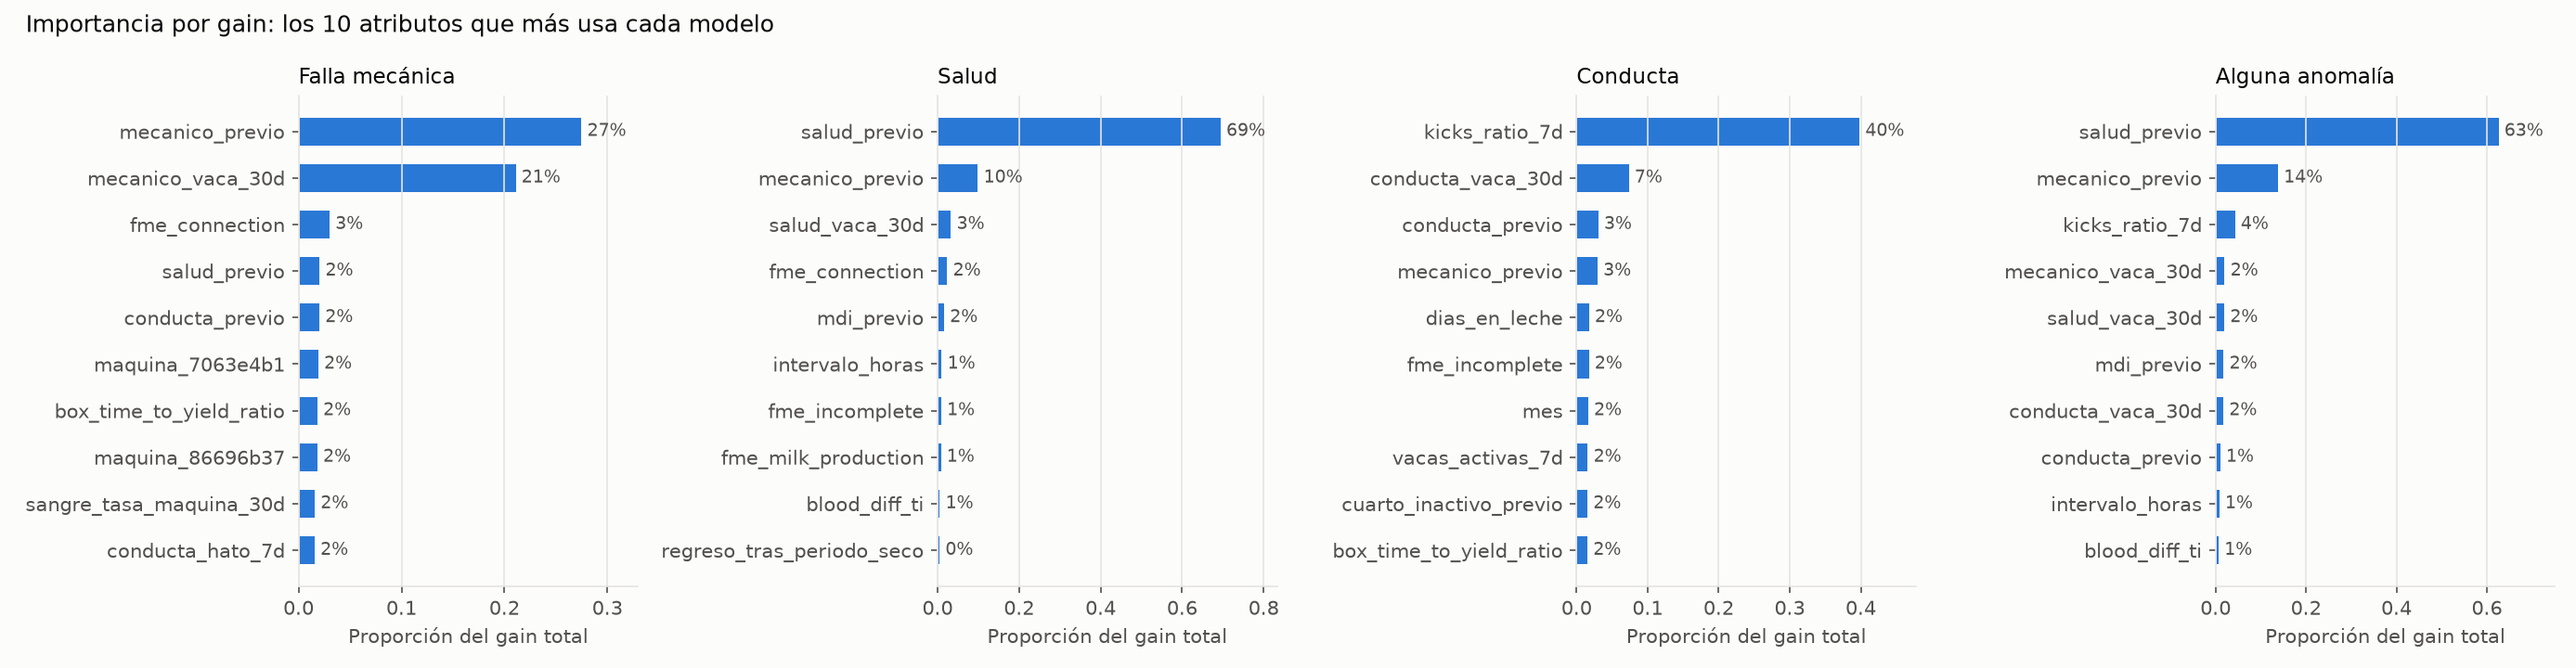
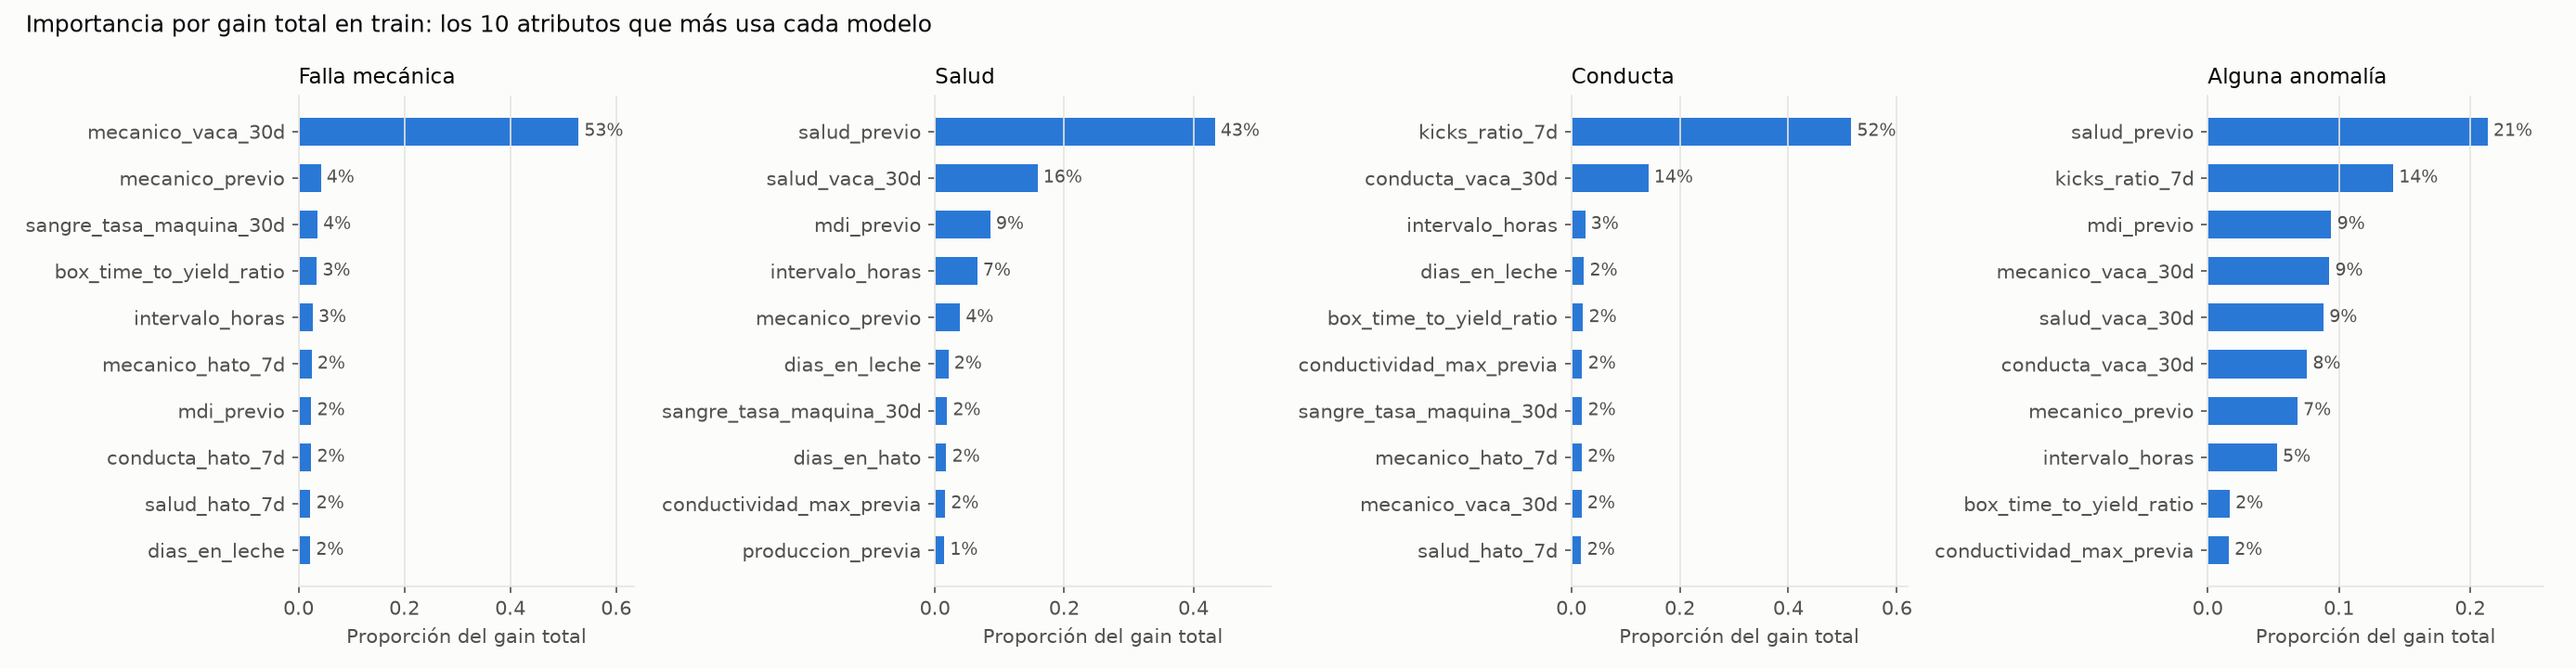
update: importancia por gain total en el XGBoost

diff --git a/src/MODELING/XGBoost/plots.py b/src/MODELING/XGBoost/plots.py
@@ -108,11 +108,14 @@ def probability_distributions(y, probabilities, metrics):
 
 
 def gain_importance(models):
-    """5. Los atributos con más gain de cada modelo."""
-    gains = [pd.Series(model.get_booster().get_score(importance_type="gain")) for model in models]
+    """
+    5. Los atributos con más gain total de cada modelo (suma de la mejora de la pérdida en todos sus
+    cortes, medida en train al entrenar).
+    """
+    gains = [pd.Series(model.get_booster().get_score(importance_type="total_gain")) for model in models]
     return bars_by_event([gain / gain.sum() for gain in gains], "Proporción del gain total",
                          lambda value: f"{value:.0%}",
-                         f"Importancia por gain: los {TOP_FEATURES} atributos que más usa cada modelo")
+                         f"Importancia por gain total en train: los {TOP_FEATURES} atributos que más usa cada modelo")
 
 
 def bars_by_event(series, xlabel, label, title):
